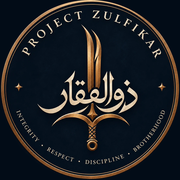
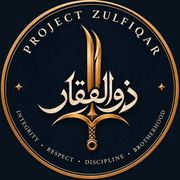
Smoke from the sword, the ZULFIQAR badge, and a working site when the database is down
Smoke: soft wisps rise from the blade tips of the logo on the home page,
then the wind carries them across the mountains (smoke.js, a canvas that
lets clicks through; off for people who ask for reduced motion).

Logo: the badge spelled ZULFIQAR replaces the ZULFIKAR one.

If the database can't be reached within 8 seconds (offline, or the
Supabase project paused), the public pages still open and the sign-in
page says the members' area is unavailable, instead of the whole site
hanging.

Claude-Session: https://claude.ai/code/session_01B5Ye8CEh6cKPWJn8yCXupa

diff --git a/assets/js/app.js b/assets/js/app.js
@@ -805,7 +805,7 @@
     var html =
       '<div class="topbar__inner">' +
         '<a class="brand" href="#/home" aria-label="' + esc(P.name) + ' home">' +
-          '<img class="brand__logo" src="assets/img/logo-small.png?v=2" alt="" width="44" height="44">' +
+          '<img class="brand__logo" src="assets/img/logo-small.png?v=3" alt="" width="44" height="44">' +
           '<span class="brand__word">Project<span class="arabic" lang="ar">' + esc(P.arabic) + "</span></span></a>";
     if (nav.length) {
       html += '<nav class="nav" aria-label="Main">' + nav.map(function (n) {
@@ -898,7 +898,7 @@
   function publicHeader(cta) {
     return (
       '<header class="site-top"><div class="site-top__inner">' +
-        '<a class="brand" href="#/" aria-label="' + esc(P.name) + '"><img class="brand__logo" src="assets/img/logo-small.png?v=2" alt="" width="40" height="40">' +
+        '<a class="brand" href="#/" aria-label="' + esc(P.name) + '"><img class="brand__logo" src="assets/img/logo-small.png?v=3" alt="" width="40" height="40">' +
           '<span class="brand__word">Project<span class="arabic" lang="ar">' + esc(P.arabic) + "</span></span></a>" +
         (cta === "home" ? '<a class="btn btn--sm" href="#/">← Home</a>' : '<a class="btn btn--sm btn--primary" href="#/signin">Member sign in</a>') +
       "</div></header>"
@@ -934,7 +934,7 @@
     };
   }
   function lpFoot() {
-    return '<footer class="lp-foot"><img src="assets/img/logo.webp?v=2" width="64" height="64" alt="">' +
+    return '<footer class="lp-foot"><img src="assets/img/logo.webp?v=3" width="64" height="64" alt="">' +
       "<span>" + esc(P.name) + "</span><span class=\"soft\">" + esc((P.values || []).join(" · ")) + "</span>" +
       '<span class="soft">改善 · kaizen</span></footer>';
   }
@@ -949,7 +949,7 @@
       '<section class="lpA-track"><div class="lpA-pin">' +
         '<div class="lpA-kaizen" title="Kaizen: continual improvement"><p class="kaizen" lang="ja">改善</p><p class="kaizen__word">Kaizen</p></div>' +
         '<div class="lpA-copy">' +
-          '<img class="lpA-mark" src="assets/img/logo.webp?v=2" width="720" height="720" alt="' + esc(P.name) + '">' +
+          '<img class="lpA-mark" src="assets/img/logo.webp?v=3" width="720" height="720" alt="' + esc(P.name) + '">' +
           '<h1 class="lpA-h1">' + lines.map(function (l, i) { return '<span data-line="' + i + '">' + l + "</span>"; }).join("") + "</h1>" +
           '<p class="lpA-lede">' + esc(P.name) + " is a weekly programme for our Muslim youth.</p>" +
           '<div class="row lpA-actions"><a class="btn btn--primary" href="#/register">Register your son</a><a class="btn btn--ghost" href="#/signin">Member sign in</a></div>' +
@@ -975,6 +975,7 @@
       '<section class="lpA-sec lpA-cta"><h2 class="lpA-h2 lpA-values">' + (P.values || []).map(function (v) { return "<span>" + esc(v) + "</span>"; }).join(" ") + "</h2>" +
         '<a class="btn btn--primary" href="#/register">Join Project Zulfiqar</a></section>' +
       "</div>" + lpFoot();
+    if (window.ZSmoke) ZSmoke.start($main.querySelector(".lpA-mark"));
     var spans = $main.querySelectorAll(".lpA-h1 span");
     // A/B: the two wrestling animations, to compare; the choice is
     // remembered on this device
@@ -1001,6 +1002,7 @@
   function viewLanding(r) {
     var tab = r.path === "register" ? "register" : r.path === "forgot" ? "forgot" : "signin";
     var auth;
+    var down = state.offline ? '<p class="form-status is-error" style="margin:0 0 1rem">The members\' area can\'t be reached right now. Please try again a little later.</p>' : "";
     if (tab === "register") {
       auth =
         "<h2>Register your son</h2>" +
@@ -1058,9 +1060,9 @@
     $main.innerHTML =
       publicHeader("home") +
       '<div class="login">' +
-        '<section class="card card--strong auth-card" aria-label="Account">' + auth + "</section>" +
+        '<section class="card card--strong auth-card" aria-label="Account">' + down + auth + "</section>" +
         '<section class="login-brand">' +
-          '<h1><img class="login-brand__logo" src="assets/img/logo.webp?v=2" width="720" height="720" alt="' + esc(P.name) + '"></h1>' +
+          '<h1><img class="login-brand__logo" src="assets/img/logo.webp?v=3" width="720" height="720" alt="' + esc(P.name) + '"></h1>' +
           '<p class="kaizen" lang="ja" title="Kaizen: continual improvement">改善</p>' +
           '<p class="kaizen__word">Kaizen</p>' +
         "</section>" +
@@ -1111,7 +1113,7 @@
       var res = await D.signUp({ email: f.email, password: f.password, parent_name: f.parent_name, phone: f.phone, boys: boys });
       if (res.needsConfirmation) {
         $main.innerHTML = '<div class="card" style="max-width:520px;margin:2rem auto;text-align:center">' +
-          '<img src="assets/img/logo.webp?v=2" alt="" width="160" height="160" style="margin:0 auto .5rem;width:160px;height:auto">' +
+          '<img src="assets/img/logo.webp?v=3" alt="" width="160" height="160" style="margin:0 auto .5rem;width:160px;height:auto">' +
           "<h1>Check your email</h1><p class=\"soft\">We've sent a confirmation link to <strong>" + esc(f.email) +
           "</strong>. Click it to finish setting up your account, then sign in.</p></div>";
         return;
@@ -1309,7 +1311,7 @@
     $main.innerHTML =
       '<div class="confirmation card card--strong">' +
         '<div class="confirmation__head">' +
-          '<img src="assets/img/logo-small.png?v=2" alt="" width="72" height="72">' +
+          '<img src="assets/img/logo-small.png?v=3" alt="" width="72" height="72">' +
           '<div><p class="label">Booking confirmation</p><h1>' + (ok ? "Signed up and paid" : "Not confirmed yet") + "</h1></div>" +
           (ok ? badge("Confirmed", "ok") : badge("Action needed", "warn")) +
         "</div>" +
@@ -1981,8 +1983,12 @@
      Start
      ====================================================================== */
   window.addEventListener("hashchange", render);
-  D.init().then(render).catch(function (err) {
+  // If the database can't be reached (offline, or the project is paused), the
+  // public pages still open; the sign-in page says the members' area is down.
+  var giveUp = new Promise(function (_, reject) { setTimeout(function () { reject(new Error("The database didn't answer in time.")); }, 8000); });
+  Promise.race([D.init(), giveUp]).then(render).catch(function (err) {
     console.error(err);
-    $main.innerHTML = '<div class="card"><h1>Can\'t connect</h1><p class="soft">The portal couldn\'t reach its database. Check your connection and the keys in <code>config.js</code>.</p><p class="small muted">' + esc(err.message || err) + "</p></div>";
+    state.offline = err.message || String(err);
+    render();
   });
 })();

diff --git a/assets/js/smoke.js b/assets/js/smoke.js
@@ -1,0 +1,106 @@
+/* ============================================================================
+   PROJECT ZULFIQAR — smoke from the sword
+   ----------------------------------------------------------------------------
+   Soft wisps rise from the tip of the sword in the logo, then a wind takes
+   them and carries them out across the mountains like low cloud. Drawn on a
+   faint canvas in front of the page that lets clicks through.
+
+   ZSmoke.start(imgEl)   starts the smoke from that logo; returns stop()
+   ============================================================================ */
+(function () {
+  "use strict";
+
+  var TIP = { x: 0.475, y: 0.15 };   // the blade tips, as a fraction of the logo
+  var running = null;
+
+  // One soft puff, drawn once and stamped many times.
+  function puffSprite() {
+    var c = document.createElement("canvas"); c.width = c.height = 128;
+    var g = c.getContext("2d"), r = g.createRadialGradient(64, 64, 0, 64, 64, 64);
+    r.addColorStop(0, "rgba(240,232,220,1)");
+    r.addColorStop(0.45, "rgba(232,224,214,.55)");
+    r.addColorStop(1, "rgba(225,218,210,0)");
+    g.fillStyle = r; g.fillRect(0, 0, 128, 128);
+    return c;
+  }
+
+  function start(logo) {
+    if (running) running();
+    if (!logo || (window.matchMedia && matchMedia("(prefers-reduced-motion: reduce)").matches)) return function () {};
+
+    var canvas = document.createElement("canvas");
+    canvas.className = "smoke"; canvas.setAttribute("aria-hidden", "true");
+    document.body.appendChild(canvas);   // in front, so it visibly leaves the blade; clicks pass through
+    var ctx = canvas.getContext("2d"), sprite = puffSprite();
+    var W = 0, H = 0, dpr = 1, small = false;
+    function size() {
+      dpr = Math.min(1.5, window.devicePixelRatio || 1);
+      W = innerWidth; H = innerHeight; small = W < 700;
+      canvas.width = Math.round(W * dpr); canvas.height = Math.round(H * dpr);
+      ctx.setTransform(dpr, 0, 0, dpr, 0, 0);
+    }
+    size(); addEventListener("resize", size);
+
+    var parts = [], last = performance.now(), carry = 0, raf = 0, clock = 0;
+    var MAX = small ? 70 : 140, RATE = small ? 9 : 16;   // puffs alive, puffs per second
+
+    function emit(x, y, scale) {
+      var life = 9 + Math.random() * 6;
+      parts.push({ x: x + (Math.random() - .5) * 4 * scale, y: y, age: 0, life: life,
+        vx: (Math.random() - .3) * 8, vy: -(22 + Math.random() * 18) * scale,
+        r0: (4 + Math.random() * 4) * scale, grow: (60 + Math.random() * 70) * (small ? .6 : 1),
+        seed: Math.random() * 100, a: .08 + Math.random() * .07, rot: Math.random() * 6.28 });
+    }
+
+    function step(now) {
+      raf = requestAnimationFrame(step);
+      var dt = Math.min(.05, (now - last) / 1000); last = now; clock += dt;
+      if (!document.body.contains(logo)) { stop(); return; }
+
+      // emit from the sword while the logo is on screen
+      var b = logo.getBoundingClientRect();
+      if (b.bottom > 0 && b.top < H && b.width > 0) {
+        var tx = b.left + b.width * TIP.x, ty = b.top + b.height * TIP.y, scale = b.width / 200;
+        carry += dt * RATE;
+        while (carry >= 1 && parts.length < MAX) { emit(tx, ty, scale); carry -= 1; }
+        if (carry > 1) carry = 1;
+      }
+
+      ctx.clearRect(0, 0, W, H);
+      var gust = 1 + .35 * Math.sin(clock * .23) + .2 * Math.sin(clock * .61);   // the wind rises and falls
+      for (var i = parts.length - 1; i >= 0; i--) {
+        var p = parts[i];
+        p.age += dt;
+        var k = p.age / p.life;
+        if (k >= 1 || p.x > W + 300) { parts.splice(i, 1); continue; }
+        // rise first, then the wind takes over and lays the smoke down over the hills
+        var wind = Math.min(1, p.age / 2.2);
+        p.vx += (55 * gust * wind - p.vx * .18) * dt;
+        p.vy += ((24 + 12 * Math.sin(p.seed)) * wind - p.vy * .45 * wind) * dt;
+        p.x += (p.vx + Math.sin(clock * .9 + p.seed) * 10 * wind) * dt;
+        p.y += (p.vy + Math.cos(clock * .7 + p.seed * 1.7) * 6 * wind) * dt;
+        p.rot += dt * .05;
+        var r = p.r0 + p.grow * Math.pow(k, .7);
+        var alpha = p.a * Math.min(1, k / .04) * Math.pow(1 - k, 1.6);
+        if (alpha < .003) continue;
+        ctx.globalAlpha = alpha;
+        ctx.save(); ctx.translate(p.x, p.y); ctx.rotate(p.rot); ctx.scale(1.6, 1);   // puffs stretch along the wind
+        ctx.drawImage(sprite, -r, -r, r * 2, r * 2);
+        ctx.restore();
+      }
+      ctx.globalAlpha = 1;
+    }
+
+    function stop() {
+      cancelAnimationFrame(raf);
+      removeEventListener("resize", size);
+      canvas.remove();
+      if (running === stop) running = null;
+    }
+    running = stop;
+    raf = requestAnimationFrame(step);
+    return stop;
+  }
+
+  window.ZSmoke = { start: start };
+})();

diff --git a/index.html b/index.html
@@ -9,12 +9,12 @@
   <title>Project Zulfiqar · Portal</title>
   <meta name="description" content="Member portal for Project Zulfiqar — sign up, pay, catch up on sessions, give feedback and hand in homework.">
   <meta name="theme-color" content="#0d1119">
-  <link rel="icon" type="image/png" href="assets/img/favicon.png?v=2">
-  <link rel="apple-touch-icon" href="assets/img/apple-touch-icon.png?v=2">
+  <link rel="icon" type="image/png" href="assets/img/favicon.png?v=3">
+  <link rel="apple-touch-icon" href="assets/img/apple-touch-icon.png?v=3">
   <link rel="preconnect" href="https://fonts.googleapis.com">
   <link rel="preconnect" href="https://fonts.gstatic.com" crossorigin>
   <link rel="stylesheet" href="https://fonts.googleapis.com/css2?family=Amiri:wght@700&family=Figtree:wght@400;500;600&family=Newsreader:opsz,wght@6..72,400;6..72,500&family=Noto+Serif+JP:wght@500&display=swap">
-  <link rel="stylesheet" href="assets/css/portal.css?v=45">
+  <link rel="stylesheet" href="assets/css/portal.css?v=46">
 </head>
 <body>
   <div class="scene" id="scene" aria-hidden="true"></div>
@@ -25,12 +25,13 @@
   <footer class="foot" id="foot"></footer>
   <div class="toast" id="toast" role="status" aria-live="polite"></div>
 
-  <script src="assets/js/config.js?v=45"></script>
-  <script src="assets/js/data.js?v=45"></script>
-  <script src="assets/js/scenery.js?v=45"></script>
-  <script src="assets/js/rigdata.js?v=45"></script>
-  <script src="assets/js/lineart.js?v=45"></script>
-  <script src="assets/js/wrestle.js?v=45"></script>
-  <script src="assets/js/app.js?v=45"></script>
+  <script src="assets/js/config.js?v=46"></script>
+  <script src="assets/js/data.js?v=46"></script>
+  <script src="assets/js/scenery.js?v=46"></script>
+  <script src="assets/js/rigdata.js?v=46"></script>
+  <script src="assets/js/lineart.js?v=46"></script>
+  <script src="assets/js/wrestle.js?v=46"></script>
+  <script src="assets/js/smoke.js?v=46"></script>
+  <script src="assets/js/app.js?v=46"></script>
 </body>
 </html>

diff --git a/assets/css/portal.css b/assets/css/portal.css
@@ -484,3 +484,6 @@ body.has-nav .foot { padding-bottom: 7rem; }
 .notice__meta { margin: .35rem 0 0; font-size: .78rem; color: var(--ink-mute); }
 .cal-row { gap: .4rem; margin: .7rem 0 .2rem; }
 @media print { .cal-row { display: none; } }
+
+/* smoke from the sword (smoke.js): faint, in front of the page, below the bars */
+.smoke { position: fixed; inset: 0; width: 100%; height: 100%; z-index: 15; pointer-events: none; }
